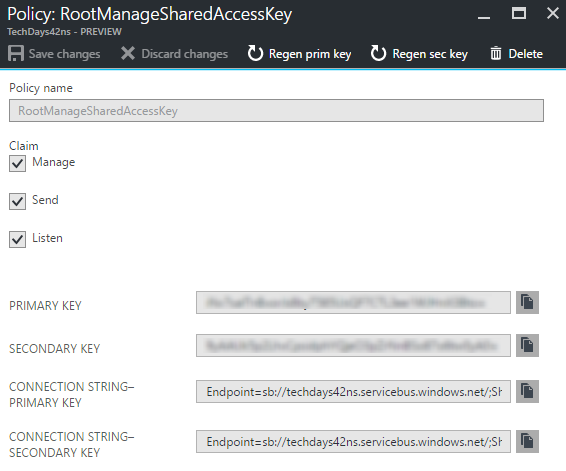
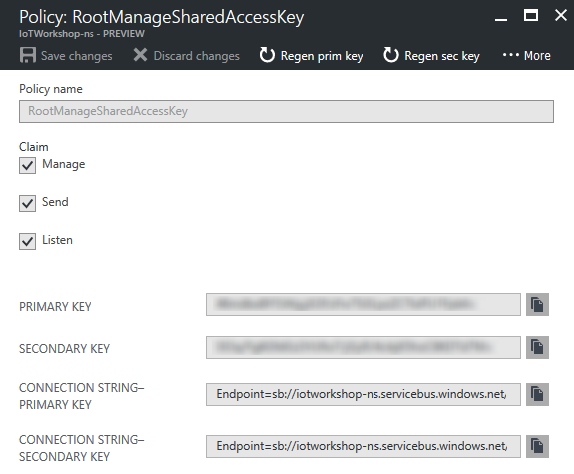
secrets

diff --git a/Azure.md b/Azure.md
@@ -89,7 +89,7 @@ Follow these steps to create an Azure Event Hub which passes large amounts of ev
 12. Select `Create` and the portal will start creating the namespace. Once it is created, a notification is shown
 13. Creating a namespace will take some time, we have to check the completion this step
 14. So navigate back to the resource group (repeat step 1 and 2) and check the namespace creation in the resource group
-15. If the namespace has become listed, select it, eg. `IoTWorkshop-ns`. Otherwise, 'refresh' the list of resources in the resource group a few times by pressing `Refresh` 
+15. If the namespace has become listed, select it, eg. `IoTWorkshop-ns`. Otherwise, 'refresh' the list of resources in the resource group a few times by pressing `Refresh` (as seen at the bottom of the screen)
 
     ![alt tag](img/azure-portal-refresh.png)
 
@@ -109,14 +109,14 @@ Follow these steps to create an Azure Event Hub which passes large amounts of ev
 
     ![alt tag](img/azure-eventhub-created.png)
 
-The Event Hub is now created. But before we leave the namespace it is created in, we need some secrets for later usage.
+The Event Hub is now created. But before we pass on, we need some Namespace secrets for later usage.
 
-## Azure Event Hub secrets
+## Azure Event Hub namespace secrets
 
-A few steps below we will create an Azure Functions triggered by an Event Hub. At this moment, in the editor of the Azure portal, the Azure functions can not automatically connect to an Event Hub. We need some secrets to do it by hand.
+A few steps below we will create an Azure Functions triggered by an Event Hub. At this moment, in the editor of the Azure portal, the Azure functions can not automatically recognize available Event Hubs. We need some secrets to do it by hand.
 
 1. Within the namespace blade, select the general setting `Shared access policies`
-2. select the `RootManageSharedAccessKey` policy
+2. select the already available `RootManageSharedAccessKey` policy
 
     ![alt tag](img/azure-eventhub-policy.png)
 
